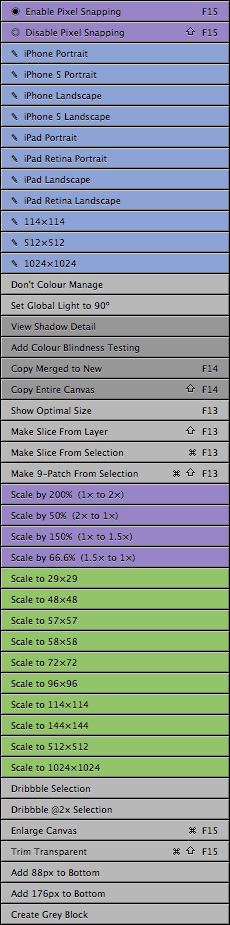
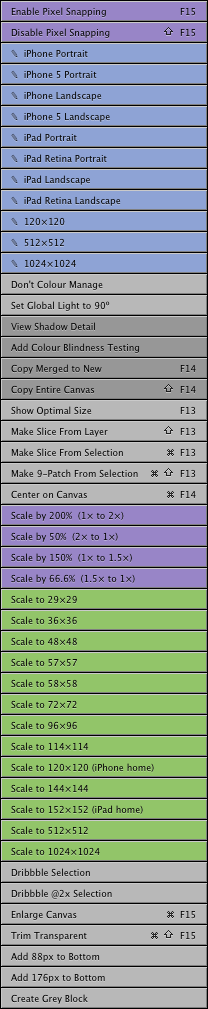
Some clean up, value check added to colour blindness testing action.
Scale Mask Feather by 300% added.

diff --git a/Scripts/Scale Mask Feather by 300%.jsx b/Scripts/Scale Mask Feather by 300%.jsx
@@ -1,0 +1,153 @@
+// ------------------------------ //
+//                                //
+//   Scale Mask Feather by 200%   //
+//           Vesion 1.0           //
+//                                //
+// ------------------------------ //
+// 
+// A Photoshop script to scale all Mask Feathering by 200%.
+// By David Jensen.
+// 
+// Place in your /Adobe Photoshop CS6/Presets/Scripts/ folder and restart Photoshop
+// for the script to appear in Scripts under the File menu. 
+// 
+
+#target photoshop
+scaleFactor=3
+app.bringToFront();
+docRef=activeDocument
+if(docRef.layers.length>1 || docRef.activeLayer.isBackgroundLayer==false){
+    docRef.suspendHistory('Scale Mask Feather 200%', 'main()');
+}
+//main();
+ function main(){
+ if(!documents.length) return;
+ selectAllLayers();
+ var selLayers = getSelectedLayersIdx();
+for(var a in selLayers){
+ maskFeather(Number(selLayers[a]));
+     }
+ }
+
+function maskFeather(idx){
+var ref = new ActionReference();
+makeActiveByIndex( idx );
+ref.putEnumerated( charIDToTypeID("Lyr "), charIDToTypeID("Ordn"), charIDToTypeID("Trgt") );
+
+var desc = executeActionGet(ref);
+    if (docRef.activeLayer.kind == undefined){
+        try{
+            var idMrgtwo = charIDToTypeID( "Mrg2" );
+            var desc197 = new ActionDescriptor();
+            var idAply = charIDToTypeID( "Aply" );
+            desc197.putBoolean( idAply, true );
+            executeAction( idMrgtwo, desc197, DialogModes.NO );
+            
+            vMF=parseFloat(activeDocument.activeLayer.vectorMaskFeather)
+            lMF=parseFloat(activeDocument.activeLayer.layerMaskFeather)  
+            
+            executeAction( charIDToTypeID( "undo" ), undefined, DialogModes.NO );
+            
+            setVMF(vMF * scaleFactor)
+            setLMF(lMF * scaleFactor)
+        }catch(err){}
+    }else{
+        vMF=parseFloat(activeDocument.activeLayer.vectorMaskFeather)
+        lMF=parseFloat(activeDocument.activeLayer.layerMaskFeather)
+        
+        setVMF(vMF * scaleFactor)
+        setLMF(lMF * scaleFactor)
+    }
+}
+function setVMF(featherSize){
+    if(featherSize>1000)featherSize=1000; 
+    try{
+        var idsetd = charIDToTypeID( "setd" );
+        var desc219 = new ActionDescriptor();
+        var idnull = charIDToTypeID( "null" );
+        var ref198 = new ActionReference();
+        var idLyr = charIDToTypeID( "Lyr " );
+        var idOrdn = charIDToTypeID( "Ordn" );
+        var idTrgt = charIDToTypeID( "Trgt" );
+        ref198.putEnumerated( idLyr, idOrdn, idTrgt );
+        desc219.putReference( idnull, ref198 );
+        var idT = charIDToTypeID( "T   " );
+        var desc220 = new ActionDescriptor();
+        var idvectorMaskFeather = stringIDToTypeID( "vectorMaskFeather" );
+        var idPxl = charIDToTypeID( "#Pxl" );
+        desc220.putUnitDouble( idvectorMaskFeather, idPxl, featherSize );
+        var idLyr = charIDToTypeID( "Lyr " );
+        desc219.putObject( idT, idLyr, desc220 );
+        executeAction( idsetd, desc219, DialogModes.NO );
+    }catch(err){}
+}
+function setLMF(featherSize){
+    if(featherSize>1000)featherSize=1000; 
+    try{
+        var idsetd = charIDToTypeID( "setd" );
+        var desc221 = new ActionDescriptor();
+        var idnull = charIDToTypeID( "null" );
+        var ref199 = new ActionReference();
+        var idLyr = charIDToTypeID( "Lyr " );
+        var idOrdn = charIDToTypeID( "Ordn" );
+        var idTrgt = charIDToTypeID( "Trgt" );
+        ref199.putEnumerated( idLyr, idOrdn, idTrgt );
+        desc221.putReference( idnull, ref199 );
+        var idT = charIDToTypeID( "T   " );
+        var desc222 = new ActionDescriptor();
+        var iduserMaskFeather = stringIDToTypeID( "userMaskFeather" );
+        var idPxl = charIDToTypeID( "#Pxl" );
+        desc222.putUnitDouble( iduserMaskFeather, idPxl, featherSize );
+        var idLyr = charIDToTypeID( "Lyr " );
+        desc221.putObject( idT, idLyr, desc222 );
+        executeAction( idsetd, desc221, DialogModes.NO );
+    }catch(err){}
+}
+
+function makeActiveByIndex( idx ){ 
+    var desc = new ActionDescriptor(); 
+      var ref = new ActionReference(); 
+      ref.putIndex(charIDToTypeID( "Lyr " ), idx) 
+      desc.putReference( charIDToTypeID( "null" ), ref ); 
+      desc.putBoolean( charIDToTypeID( "MkVs" ), false ); 
+   executeAction( charIDToTypeID( "slct" ), desc, DialogModes.NO ); 
+}; 
+function selectAllLayers() {
+    var desc29 = new ActionDescriptor();
+        var ref23 = new ActionReference();
+        ref23.putEnumerated( charIDToTypeID('Lyr '), charIDToTypeID('Ordn'), charIDToTypeID('Trgt') );
+    desc29.putReference( charIDToTypeID('null'), ref23 );
+    executeAction( stringIDToTypeID('selectAllLayers'), desc29, DialogModes.NO );
+}
+function getSelectedLayersIdx(){
+ 	var selectedLayers = new Array;
+ 	var ref = new ActionReference();
+ 	ref.putEnumerated( charIDToTypeID("Dcmn"), charIDToTypeID("Ordn"), charIDToTypeID("Trgt") );
+ 	var desc = executeActionGet(ref);
+ 	if( desc.hasKey( stringIDToTypeID( 'targetLayers' ) ) ){
+ 		desc = desc.getList( stringIDToTypeID( 'targetLayers' ));
+ 		 var c = desc.count 
+ 		 var selectedLayers = new Array();
+ 		 for(var i=0;i<c;i++){
+ 			try{ 
+ 				activeDocument.backgroundLayer;
+ 				selectedLayers.push(  desc.getReference( i ).getIndex() );
+ 			}catch(e){
+ 				selectedLayers.push(  desc.getReference( i ).getIndex()+1 );
+ 			}
+ 		 }
+ 	 }else{
+ 		var ref = new ActionReference(); 
+ 		ref.putProperty( charIDToTypeID("Prpr") , charIDToTypeID( "ItmI" )); 
+ 		ref.putEnumerated( charIDToTypeID("Lyr "), charIDToTypeID("Ordn"), charIDToTypeID("Trgt") );
+ 		try{ 
+ 			activeDocument.backgroundLayer;
+ 			selectedLayers.push( executeActionGet(ref).getInteger(charIDToTypeID( "ItmI" ))-1);
+ 		}catch(e){
+ 			selectedLayers.push( executeActionGet(ref).getInteger(charIDToTypeID( "ItmI" )));
+ 		}
+ 	}
+ 	return selectedLayers;
+};
+
+

diff --git a/Readme.md b/Readme.md
@@ -1,4 +1,4 @@
-# Bjango Actions 1.81
+# Bjango Actions 1.82
 
 Some awesome Photoshop Actions, Photoshop Scripts and Automator Workflows for iOS app and icon designers. For a full list of what the Photoshop Actions and Workflows do, please visit [bjango.com/articles/actions/](http://bjango.com/articles/actions/)
 
@@ -29,7 +29,7 @@ Old and outdated Photoshop Actions. Might be handy if you’re using Photoshop C
 An animated demonstration of the benefit of the scripts. The animation is choreographed to Woman Friend by Chromeo (music not actually included, so you’ll have to hum it). 
 
 ### Scripts
-Some amazing Photoshop scripts that will change your life for the better. Scale Patterns to 100% resets all patterns to 100% scale. The Scale Mask Feather scripts scale mask feathering by 50%, 66.6%, 150%, 200% or a value of your choosing. These are handy when you scale your documents. Place in your /Adobe Photoshop CS6/Presets/Scripts/ folder and restart Photoshop for the scripts to appear in Scripts under the File menu. **If you’re using the Bjango Actions.atn file, you must have these installed.**
+Some amazing Photoshop scripts that will change your life for the better. Scale Patterns to 100% resets all patterns to 100% scale. The Scale Mask Feather scripts scale mask feathering by 50%, 66.6%, 150%, 200%, 300% or a value of your choosing. These are handy when you scale your documents. Place in your /Adobe Photoshop CS6/Presets/Scripts/ folder and restart Photoshop for the scripts to appear in Scripts under the File menu. **If you’re using the Bjango Actions.atn file, you must have these installed.**
 
 -----------------------------
 
